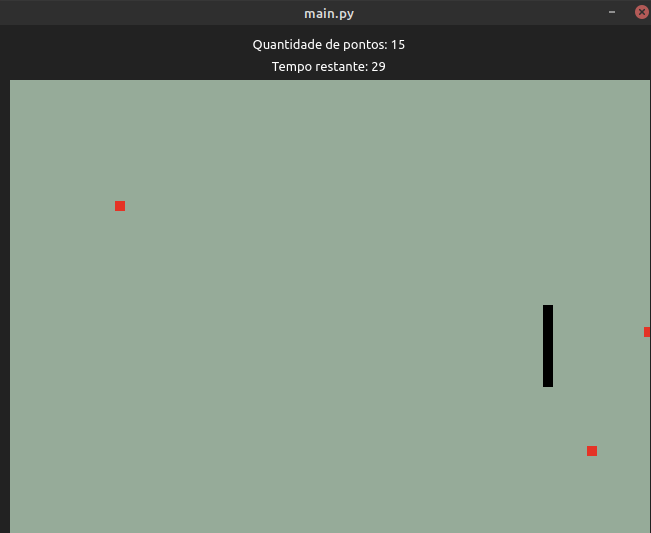
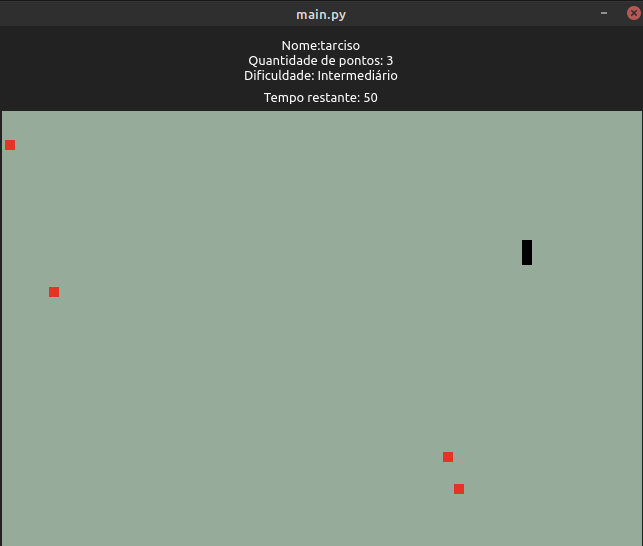
printing dificuldade and player name

diff --git a/main.py b/main.py
@@ -26,7 +26,29 @@ except:
 
 player_name = input("Digite o nome do jogador: ")
 
+try:
+    dificuldade = int(input("Insira a dificuldade:\n1- Fácil\n2- Intermediário\n3- Difícil\n4- Impossível: "))
+except:
+    print("Digite apenas números, saindo.")
+    exit()
+    
+game_speed = 2
+if(dificuldade == 1):
+    game_speed = 2
+elif(dificuldade == 2):
+    game_speed = 3
+elif(dificuldade == 3):
+    game_speed = 4
+elif(dificuldade == 4):
+    game_speed = 6
+else:
+    print("Dificuldade: {0} inexistente, saindo.")
+    exit()
 
+if(platform.system() == "Linux"):
+    os.system("clear")
+else:
+    os.system("cls")
 
 view_width = int(config['display']['width'])
 view_height = int(config['display']['height'])
@@ -161,7 +183,16 @@ def draw_snake():
     snake.append({'x': x, 'y': y})
 
     collided_apple = check_collision(x, y, apples)
-    score_label.setText("Quantidade de pontos: " + str(score))
+    if (game_speed == 2):
+        dif = "Fácil"
+    elif(game_speed == 3):
+        dif = "Intermediário"
+    elif(game_speed == 4):
+        dif = "Dificil"
+    elif(game_speed == 6):
+        dif = "Impossível"
+        
+    score_label.setText("Nome:{0}\nQuantidade de pontos: {1}\nDificuldade: {2}".format(player_name, score, dif))
     if (collided_apple is not None):
         will_snake_extend = True
         apples.remove(collided_apple)
@@ -255,29 +286,7 @@ def update_scene():
 
 
 if __name__ == "__main__":
-    try:
-        dificuldade = int(input("Insira a dificuldade:\n1- Fácil\n2- Intermediário\n3- Difícil\n4- Impossível: "))
-    except:
-        print("Digite apenas números, saindo.")
-        exit()
-        
-    game_speed = 2
-    if(dificuldade == 1):
-        game_speed = 2
-    elif(dificuldade == 2):
-        game_speed = 3
-    elif(dificuldade == 3):
-        game_speed = 4
-    elif(dificuldade == 4):
-        game_speed = 6
-    else:
-        print("Dificuldade: {0} inexistente, saindo.")
-        exit()
-
-    if(platform.system() == "Linux"):
-        os.system("clear")
-    else:
-        os.system("cls")
+    
         
     app = QApplication([])
     opengl_widget = QOpenGLWidget()
